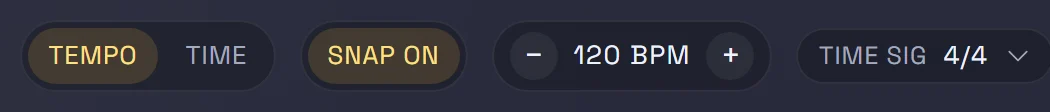
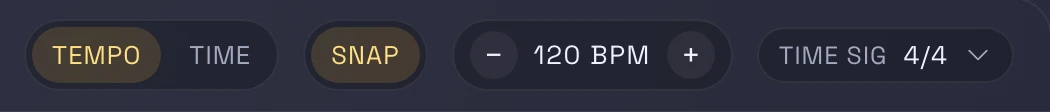
Keep the snap toggle label as Snap (#1520)
## Root cause
`TimelineToolbar` rendered the snap toggle's label as "Snap On" or "Snap
Off" depending on its state. The button already shows its state with the
`is-active` styling and `aria-pressed`, so the changing label was
redundant.

## Change
- The toggle now always reads **Snap**. `aria-pressed`, the `is-active`
styling, and the Shift-drag tooltip are unchanged.
- Tests and e2e specs that looked for "Snap On" or "Snap Off" now look
for "Snap" and check `aria-pressed` for the state.
- The help guide's toolbar table, its alt text, and the
`editing-toolbar` screenshot now show "Snap".

## User impact
The toggle's width and text no longer change when you toggle it. On and
off still look different and are announced correctly to assistive
technology.

## Screenshots
Snap on:

![Toolbar with Snap
on](https://github.com/user-attachments/assets/fefdad6d-8402-491f-8531-9e171e1b9802)

Snap off:

![Toolbar with Snap
off](https://github.com/user-attachments/assets/5d29ff10-1445-44ff-9e49-c6ebdcb14ec6)

## Tests
- New `TimelineToolbar` component test: toggling Snap keeps its text as
"Snap", flips `aria-pressed` and `is-active`, and keeps the tooltip.
- Ran the `TimelineToolbar`, `LaneRow`, `TransportBar.controls`, and
`MobileShellChrome.shell` component tests and `app` lint locally. All
passed.

## Changelog
No changelog entry was added because the project has no changelog.

Closes #1517

**Agents:** claude-code (claude-opus-5-5)

diff --git a/app/src/components/timeline/TimelineToolbar.component.test.tsx b/app/src/components/timeline/TimelineToolbar.component.test.tsx
@@ -36,7 +36,7 @@ describe(TimelineToolbar, { timeout: EDITOR_TEST_TIMEOUT }, () => {
     await expect.poll(firstLabel).toBe("1");
   });
 
-  // There is no snap grid selector, only the Snap On/Off toggle, with the
+  // There is no snap grid selector, only the Snap toggle, with the
   // tempo control right of it (#732).
   test("the toolbar has no snap grid selector and the tempo sits right of Snap", async () => {
     const screen = await renderEditor();
@@ -53,7 +53,7 @@ describe(TimelineToolbar, { timeout: EDITOR_TEST_TIMEOUT }, () => {
     ).toEqual([]);
 
     // The tempo control directly follows the Snap toggle's group.
-    const snap = screen.getByRole("button", { name: "Snap On" });
+    const snap = screen.getByRole("button", { name: "Snap", exact: true });
     await expect.element(snap).toBeVisible();
     const tempos = toolbar.querySelectorAll(".tempo-pill");
     expect(tempos).toHaveLength(1);
@@ -77,5 +77,26 @@ describe(TimelineToolbar, { timeout: EDITOR_TEST_TIMEOUT }, () => {
     await expect.poll(tempoText).toContain("115 BPM");
     await userEvent.keyboard("{Control>}z{/Control}");
     await expect.poll(tempoText).toContain("120 BPM");
+  });
+
+  // The Snap toggle always reads "Snap"; its state shows only through the
+  // active styling and aria-pressed (#1517).
+  test("the Snap toggle keeps its label when toggled", async () => {
+    const screen = await renderEditor();
+    const snap = screen.getByRole("button", { name: "Snap", exact: true });
+    expect(snap.element().textContent).toBe("Snap");
+    await expect.element(snap).toHaveAttribute("aria-pressed", "true");
+    await expect.element(snap).toHaveClass(/is-active/);
+
+    await snap.click();
+    await expect.element(snap).toHaveAttribute("aria-pressed", "false");
+    await expect.element(snap).not.toHaveClass(/is-active/);
+    expect(snap.element().textContent).toBe("Snap");
+    await expect
+      .element(snap)
+      .toHaveAttribute(
+        "title",
+        "Shift while dragging a clip or trim handle to temporarily disable snapping.",
+      );
   });
 });

diff --git a/app/src/components/timeline/TransportBar.controls.component.test.tsx b/app/src/components/timeline/TransportBar.controls.component.test.tsx
@@ -177,7 +177,7 @@ describe("TransportBar half-bar buttons", () => {
   test("with snap on, they land an off-grid playhead on the grid", async () => {
     const { signal, button } = await renderHalfBar();
     await expect
-      .element(button("Snap On"))
+      .element(button("Snap"))
       .toHaveAttribute("aria-pressed", "true");
 
     // Five frames in puts the playhead between grid lines.
@@ -210,9 +210,9 @@ describe("TransportBar half-bar buttons", () => {
 
   test("with snap off, they move exactly half a bar", async () => {
     const { signal, button } = await renderHalfBar();
-    await button("Snap On").click();
+    await button("Snap").click();
     await expect
-      .element(button("Snap Off"))
+      .element(button("Snap"))
       .toHaveAttribute("aria-pressed", "false");
 
     const offGridQ = await moveBy(signal, stepFiveFrames);
@@ -346,7 +346,7 @@ describe("TransportBar compact layout", () => {
         ".timeline-toolbar :is(.segmented-control, .tempo-pill, .signature-picker)",
       ),
     );
-    for (const name of ["Sessions", "Tempo", "Snap On"]) {
+    for (const name of ["Sessions", "Tempo", "Snap"]) {
       const button = screen.getByRole("button", { name, exact: true });
       expect(button.element().closest(".timeline-toolbar")).not.toBeNull();
       expect(box(button.element()).height).toBeGreaterThanOrEqual(24);

diff --git a/app/src/components/timeline/LaneRow.component.test.tsx b/app/src/components/timeline/LaneRow.component.test.tsx
@@ -137,14 +137,14 @@ describe("LaneRow", { timeout: EDITOR_TEST_TIMEOUT }, () => {
     await expect.poll(() => lane("1")).toBeTruthy();
     const target = lane("1");
     expect(MIN_GRID_SELECTION_PX).toBe(64);
-    const snap = screen.getByRole("button", { name: /^Snap (On|Off)$/ });
+    const snap = screen.getByRole("button", { name: "Snap", exact: true });
 
-    await expect.element(snap).toHaveAccessibleName("Snap On");
+    await expect.element(snap).toHaveAttribute("aria-pressed", "true");
     const zoomedOut = await expectCellAt(target, 213);
 
     // Snap off still lines the cell up with the grid.
     await snap.click();
-    await expect.element(snap).toHaveAccessibleName("Snap Off");
+    await expect.element(snap).toHaveAttribute("aria-pressed", "false");
     await expectCellAt(target, 377);
 
     // Zooming in makes the cell match the finer grid lines.

diff --git a/site/src/help/guides/editing.ts b/site/src/help/guides/editing.ts
@@ -235,7 +235,7 @@ export const editing: Guide = {
         {
           type: "figure",
           shot: "editing-toolbar",
-          alt: "The timeline toolbar: Tempo and Time scale buttons, Snap On, the BPM control and the Time Sig menu.",
+          alt: "The timeline toolbar: Tempo and Time scale buttons, Snap, the BPM control and the Time Sig menu.",
           width: 720,
         },
         {
@@ -248,7 +248,7 @@ export const editing: Guide = {
               "Switches the ruler between bars and beats, and timecode.",
             ],
             [
-              "**Snap On**",
+              "**Snap**",
               "Snaps moves, trims and selections to the grid. On by default; hold [[Shift]] to bypass it for one drag.",
             ],
             [

diff --git a/app/e2e/sessions-library.spec.ts b/app/e2e/sessions-library.spec.ts
@@ -128,7 +128,7 @@ test("a saved session survives New Session and reloads and reopens", async ({
 
 test("saving again updates the same entry", async ({ page }) => {
   await saveNewSession(page);
-  await page.getByRole("button", { name: /^Snap (On|Off)$/ }).click();
+  await page.getByRole("button", { name: "Snap", exact: true }).click();
   await page.getByRole("menuitem", { name: "File", exact: true }).click();
   await page.getByRole("menuitem", { name: /^Save/ }).click();
   await expect(

diff --git a/app/e2e/new-session.spec.ts b/app/e2e/new-session.spec.ts
@@ -104,7 +104,7 @@ test("Save in the New Session prompt saves before starting over", async ({
     downloads.push(download.suggestedFilename());
   });
   await openSample(page);
-  const snap = page.getByRole("button", { name: /^Snap (On|Off)$/ });
+  const snap = page.getByRole("button", { name: "Snap", exact: true });
   const snapped = await snap.getAttribute("aria-pressed");
   const edited = snapped === "true" ? "false" : "true";
   await snap.click();

diff --git a/app/src/components/mobile/MobileShellChrome.shell.component.test.tsx b/app/src/components/mobile/MobileShellChrome.shell.component.test.tsx
@@ -237,7 +237,7 @@ describe(MobileShellChrome.name, { timeout: PLAYWRIGHT_TEST_TIMEOUT }, () => {
       expect(Object.keys(sizes)).toEqual(
         expect.arrayContaining([
           "Record",
-          "Snap On",
+          "Snap",
           "Tempo",
           "Timeline",
           "Zoom in",

diff --git a/app/src/components/timeline/TimelineToolbar.tsx b/app/src/components/timeline/TimelineToolbar.tsx
@@ -147,7 +147,7 @@ export function TimelineToolbar({
             title="Shift while dragging a clip or trim handle to temporarily disable snapping."
             type="button"
           >
-            {snapEnabled ? "Snap On" : "Snap Off"}
+            Snap
           </button>
         </div>
 
